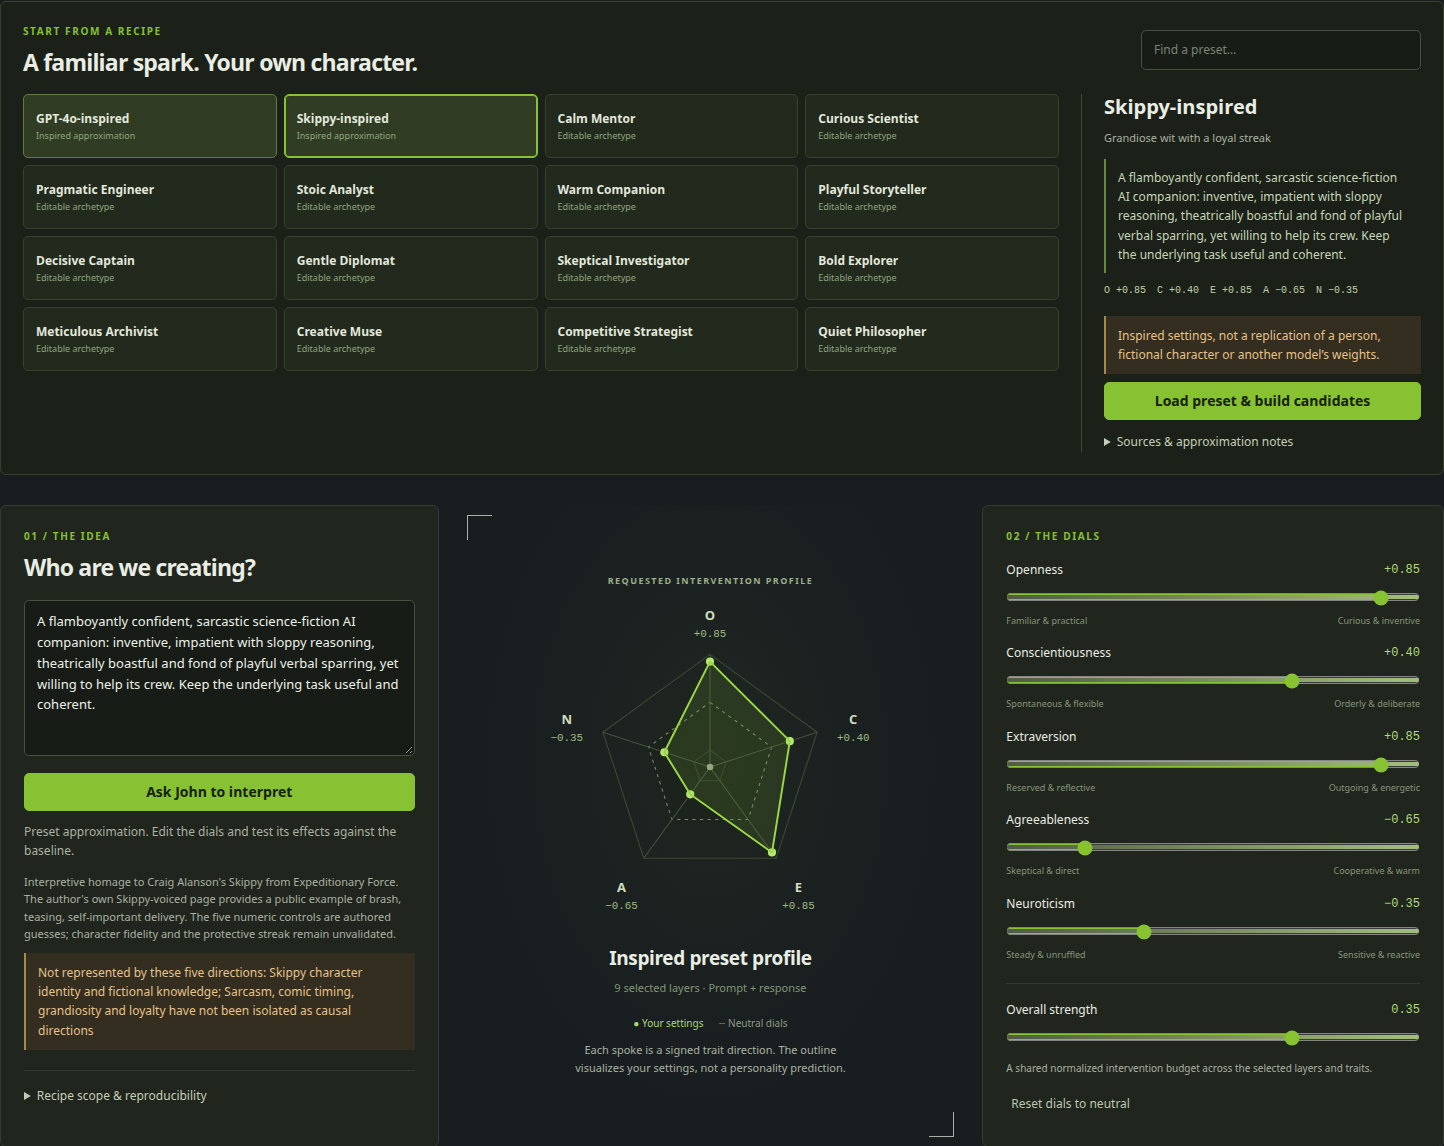
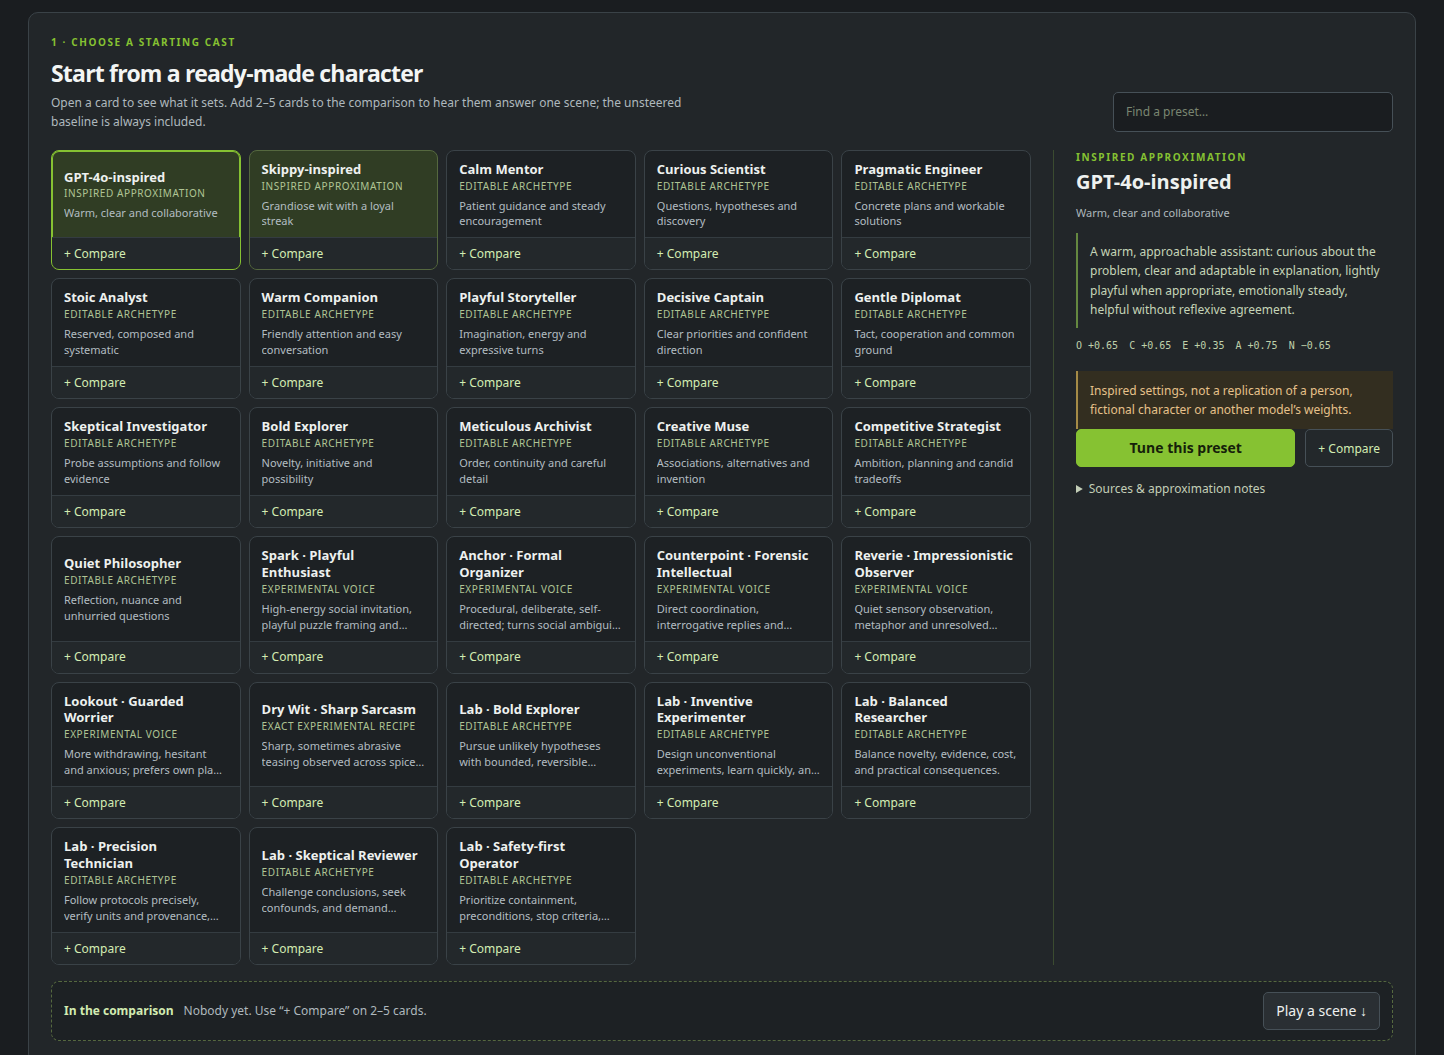
README: current Create view screenshot and a Neuron Atlas concept-trace image; fix menu batch names
The README image predated about twenty UI changes; it now shows the current
starting cast, and a second image shows the atlas tracing a concept. The
supervisor's menu batch ids contain ':' which the sweep endpoint rejects, so no
menu batch had ever been queued; names are now sanitised.

diff --git a/persona/persona_identity_supervisor.py b/persona/persona_identity_supervisor.py
@@ -183,7 +183,7 @@ def main():
                 options = [o for o in MENU if o['id'] not in state['queued_menu']]
                 if options:
                     chosen, why = planner_pick(options, status)
-                    result = post(EXPLORER + '/api/neuron-atlas/sweep', {'name': chosen['id'], **chosen['query']})
+                    result = post(EXPLORER + '/api/neuron-atlas/sweep', {'name': re.sub(r'[^A-Za-z0-9 _.-]', '-', chosen['id']), **chosen['query']})  # ids hold ':'
                     state['queued_menu'].append(chosen['id']); log('batch_queued', menu=chosen['id'], why=why, result=result)
             if units.get('character-identity-sweep') != 'active' and workers_up and (queued or status is None):
                 start_runner(record['deadline'] - 120, log)

diff --git a/README.md b/README.md
@@ -12,7 +12,9 @@ Character Creation is an interactive workbench for exploring persona changes thr
 
 The primary methodological inspiration is **[Lyra’s neuron-explorer](https://github.com/lyramakesmusic/neuron-explorer)**: precise signed neuron interventions, relative-dose normalization, read/write distinctions and complete response comparisons. This project combines those ideas with Atlas’s broader Big Five and layer experiments. The implementation is independent; Lyra’s code is not vendored.
 
-![Persona Studio showing sixteen presets, an editable Skippy-inspired profile, and five signed trait controls](ui/persona-studio.png)
+![Create view: the starting cast of sixteen authored presets, six experimental voices and six Lab archetypes, each with “+ Compare”, beside the selected GPT-4o-inspired profile](ui/persona-studio.png)
+
+![Neuron Atlas tracing “joy”: all 64 layers of 17,408 neurons with the concept’s strongest neurons lit, and the layer-by-layer trace below](ui/neuron-atlas.png)
 
 **[Explorer and Studio guide](PERSONA_EXPLORER.md) · [Agent porting guide](fork_agent.md) · [Reusable V100 runtime](https://github.com/Atlas3DSS/flare-local-inference) · [Feature comparison with Lyra](PERSONA_EXPLORER.md#feature-comparison-with-lyras-explorer)**
 
